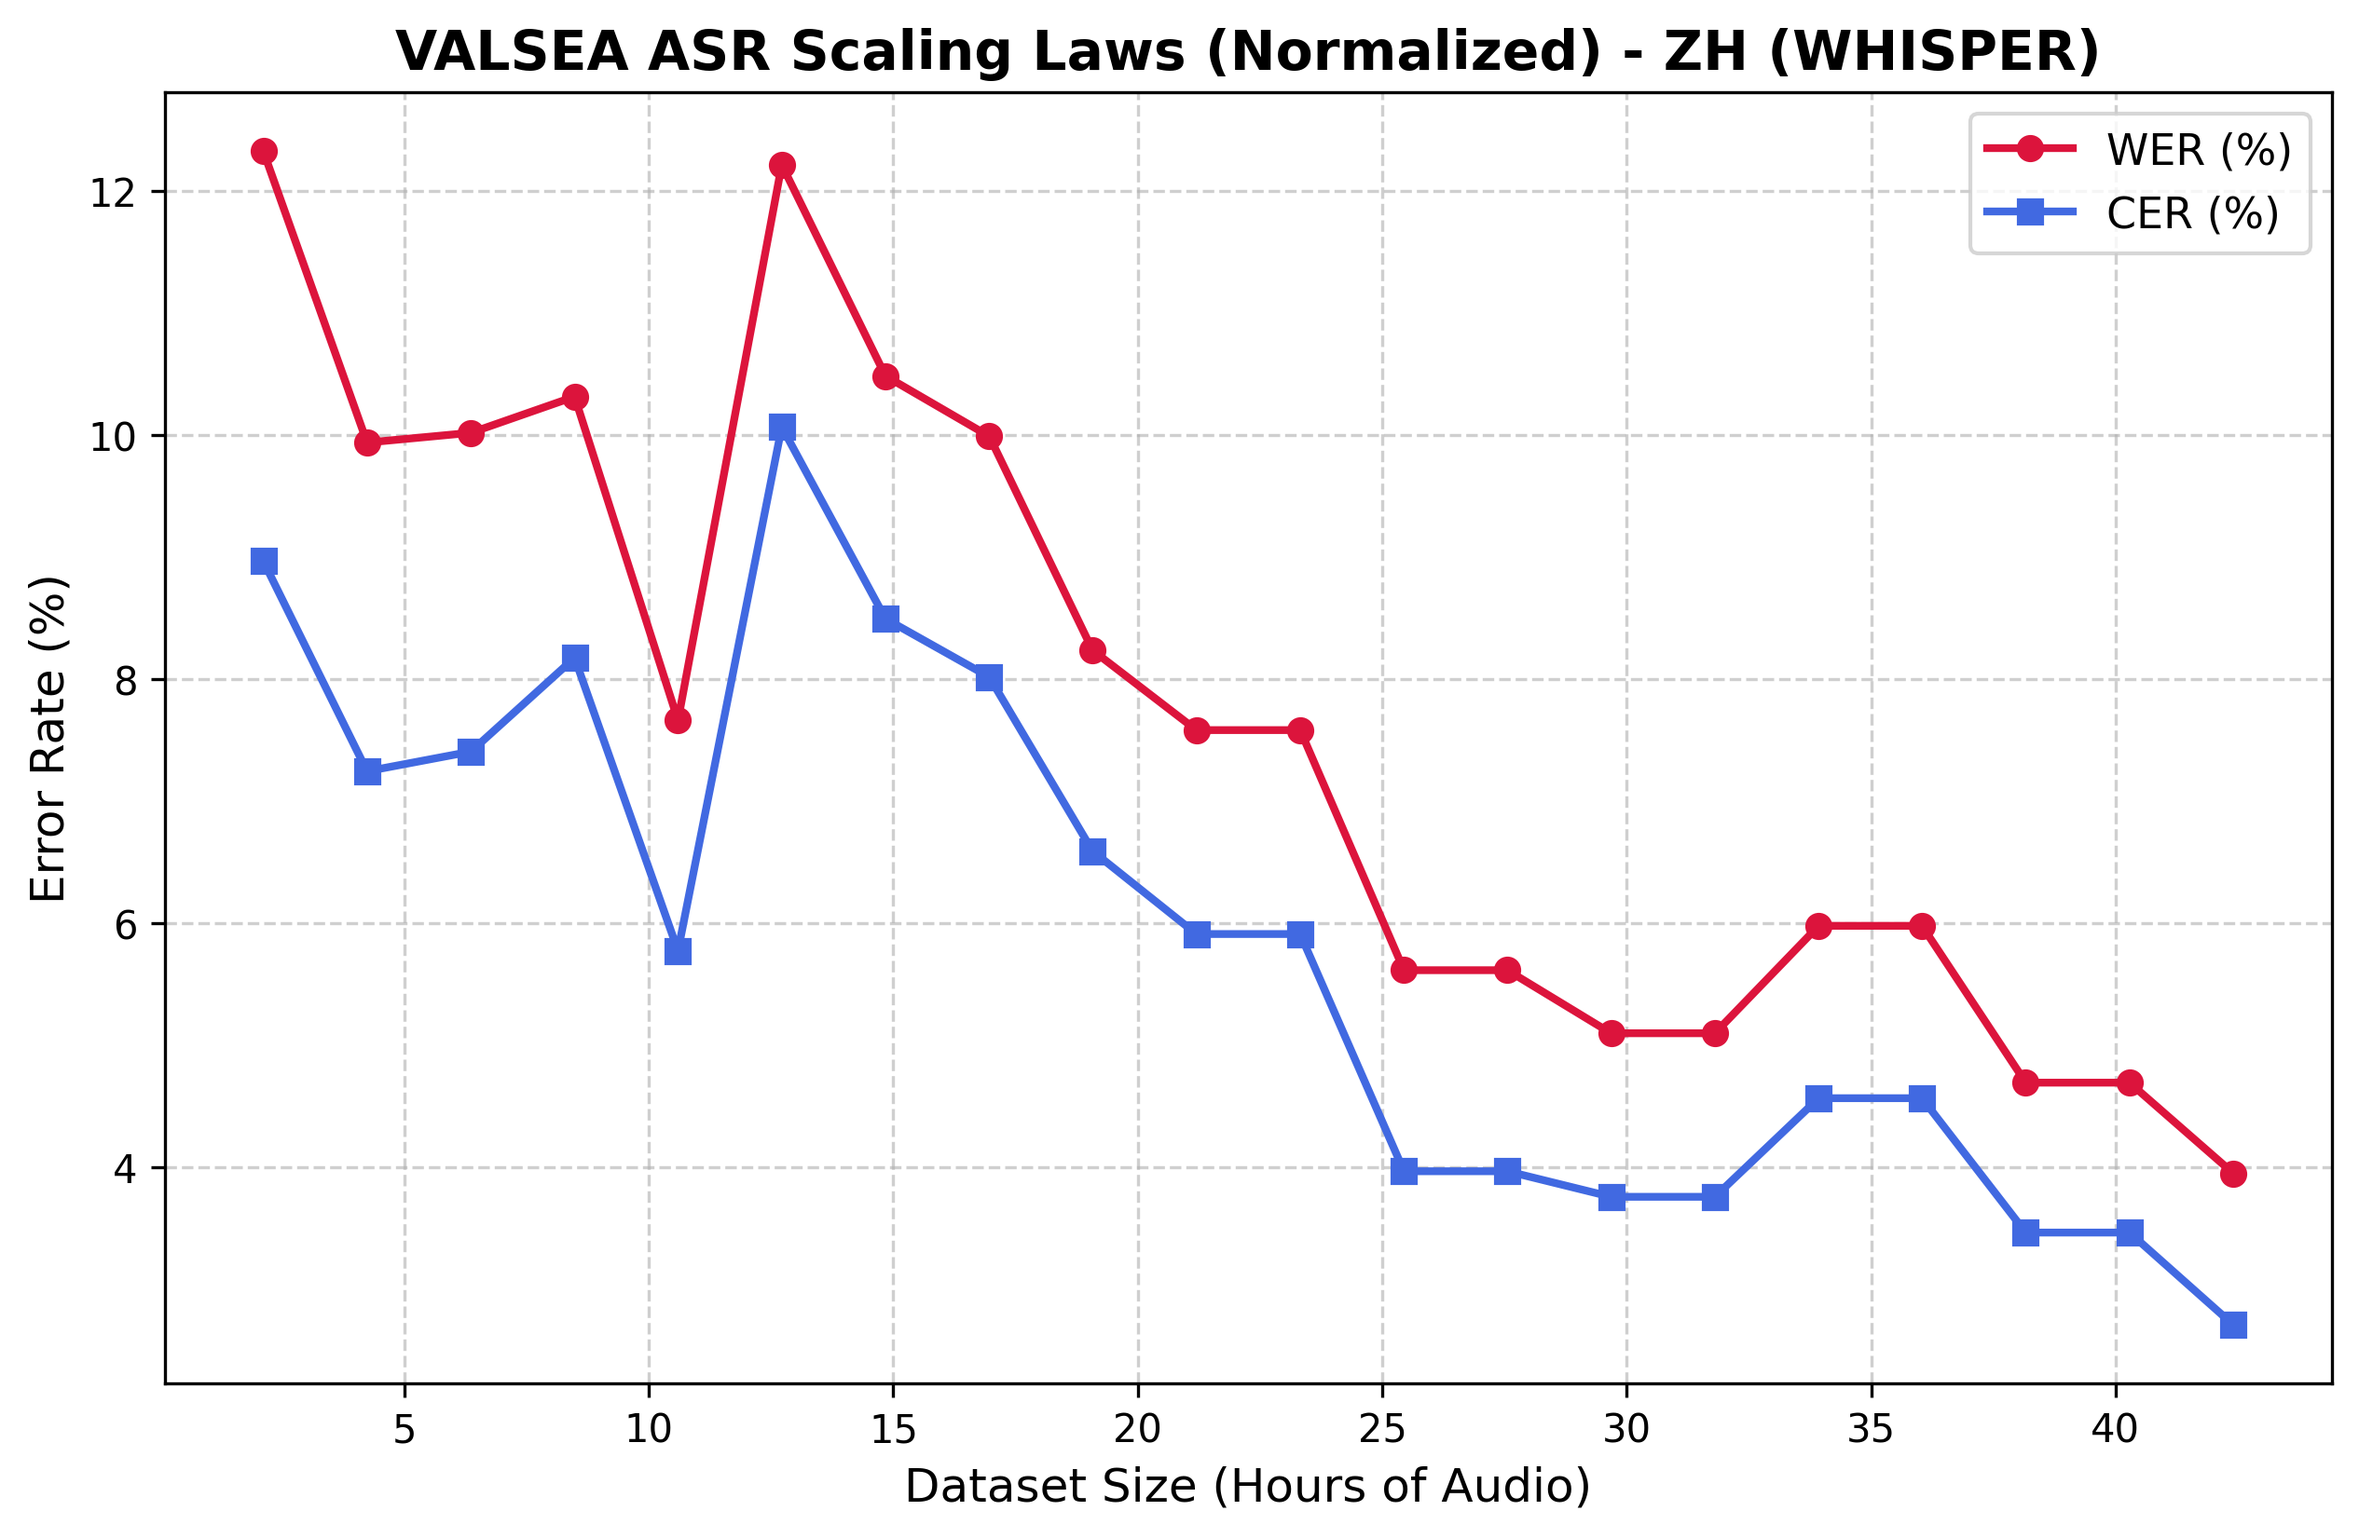
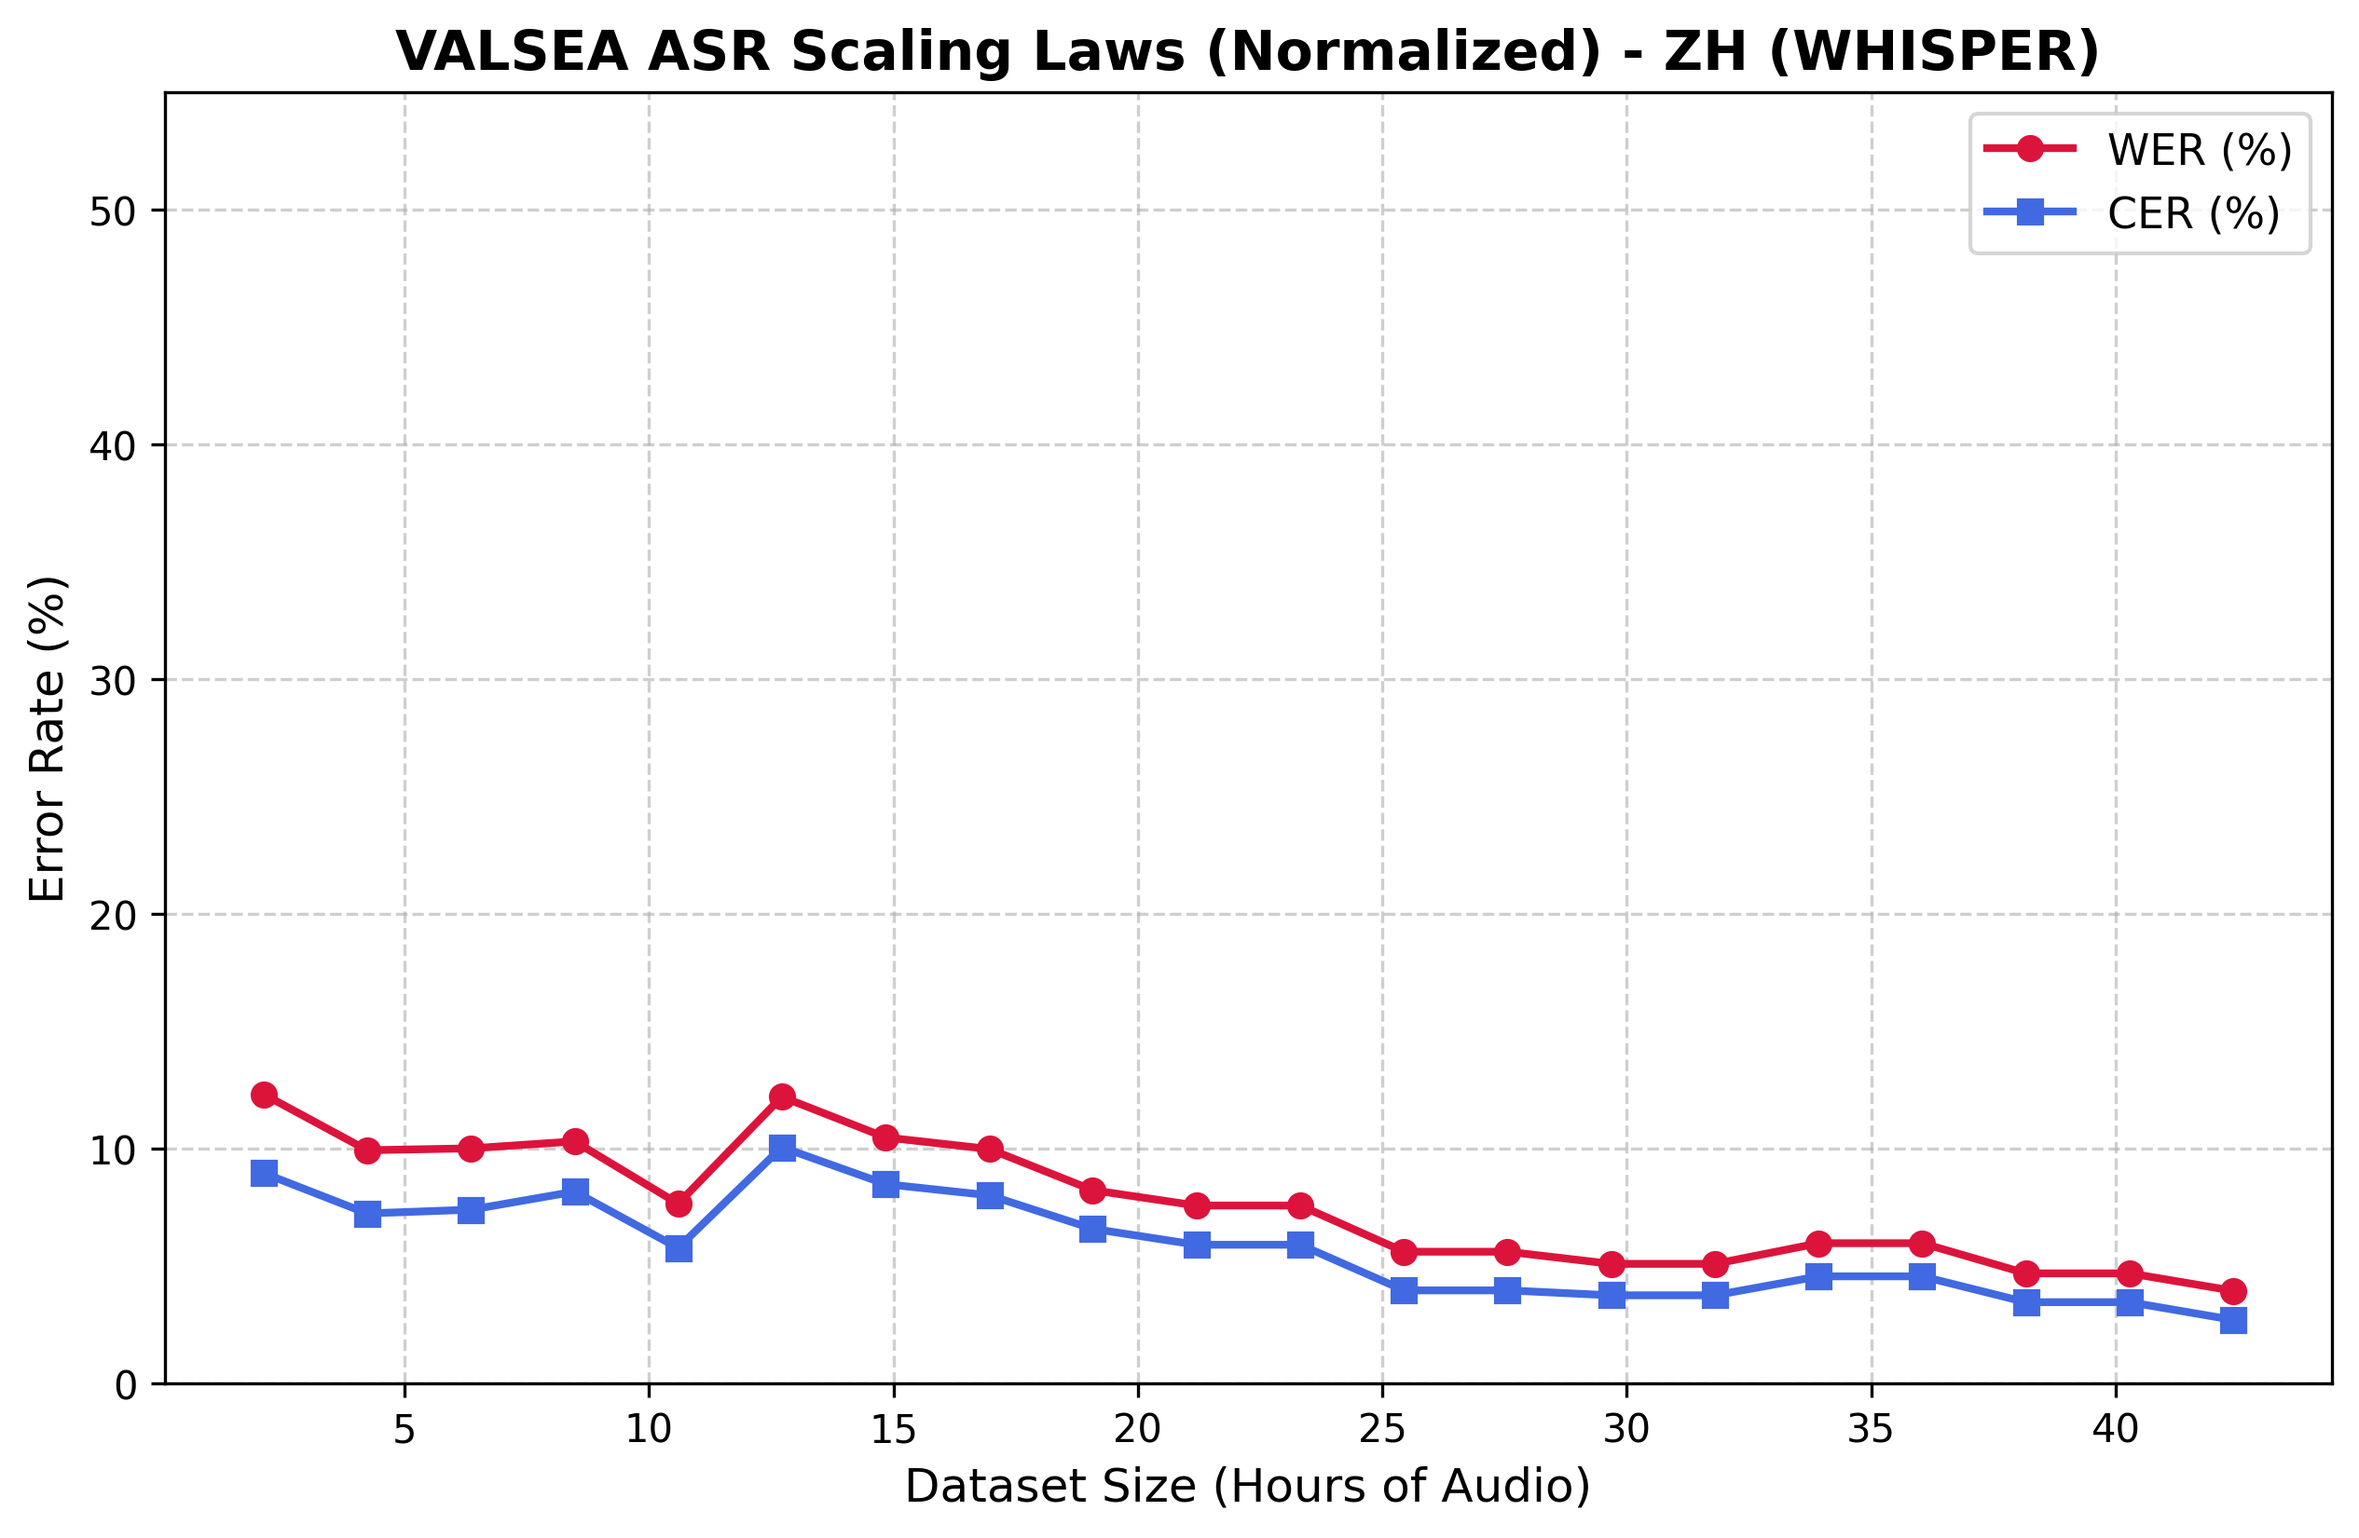
style: unify Y-axis range to [0, 55] for direct visual comparison of scaling curves

diff --git a/benchmark/replot_from_csv.py b/benchmark/replot_from_csv.py
@@ -1,0 +1,36 @@
+"""Script to replot ASR scaling curves directly from CSV files to adjust Y-axis limits."""
+import os
+import pandas as pd
+import matplotlib.pyplot as plt
+from benchmark.plot_gradients import plot_gradients_for_lang
+
+def replot_scaling_curves(lang: str):
+    csv_path = f"outputs/benchmark/normalized_stats/scaling_{lang}_whisper_synthetic.csv"
+    if not os.path.exists(csv_path):
+        print(f"[ERROR] CSV path does not exist: {csv_path}")
+        return
+
+    df = pd.read_csv(csv_path)
+    df = df.sort_values("Hours").reset_index(drop=True)
+
+    plt.figure(figsize=(10, 6))
+    plt.plot(df["Hours"], df["WER"] * 100, marker='o', linewidth=2, label="WER (%)", color="crimson")
+    plt.plot(df["Hours"], df["CER"] * 100, marker='s', linewidth=2, label="CER (%)", color="royalblue")
+    
+    plt.title(f"VALSEA ASR Scaling Laws (Normalized) - {lang.upper()} (WHISPER)", fontsize=14, fontweight='bold')
+    plt.xlabel("Dataset Size (Hours of Audio)", fontsize=12)
+    plt.ylabel("Error Rate (%)", fontsize=12)
+    plt.grid(True, linestyle="--", alpha=0.6)
+    plt.ylim(0, 55)
+    plt.legend(fontsize=11)
+    
+    output_dir = "outputs/benchmark/normalized_stats"
+    plot_path = os.path.join(output_dir, f"scaling_{lang}_whisper_synthetic.png")
+    plt.savefig(plot_path, dpi=300, bbox_inches="tight")
+    plt.close()
+    print(f"[SUCCESS] Re-plotted scaling curve saved to {plot_path}")
+
+if __name__ == "__main__":
+    for lang in ["zh", "hi"]:
+        replot_scaling_curves(lang)
+        plot_gradients_for_lang(lang)

diff --git a/benchmark/re_evaluate.py b/benchmark/re_evaluate.py
@@ -203,6 +203,7 @@ def re_evaluate_sweeps(lang: str, model_type: str = "whisper", data_type: str = 
         plt.xlabel("Dataset Size (Hours of Audio)", fontsize=12)
         plt.ylabel("Error Rate (%)", fontsize=12)
         plt.grid(True, linestyle="--", alpha=0.6)
+        plt.ylim(0, 55)
         plt.legend(fontsize=11)
         
         plot_path = output_dir / f"scaling_{lang}_{model_type}_{data_type}.png"

diff --git a/benchmark/plot_gradients.py b/benchmark/plot_gradients.py
@@ -40,6 +40,7 @@ def plot_gradients_for_lang(lang: str):
     axes[0].set_xlabel('Dataset Size (Hours)', fontsize=10)
     axes[0].set_ylabel('Error Rate (%)', fontsize=10)
     axes[0].grid(True, linestyle='--', alpha=0.6)
+    axes[0].set_ylim(0, 55)
     axes[0].legend(fontsize=10)
 
     # Panel 2: First Derivative (Gradient)
